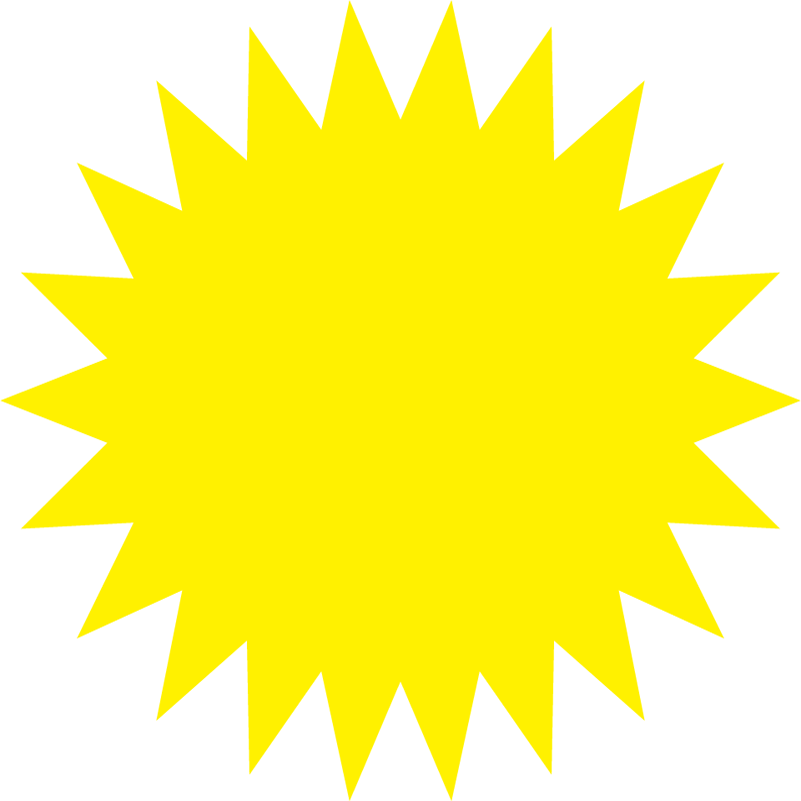
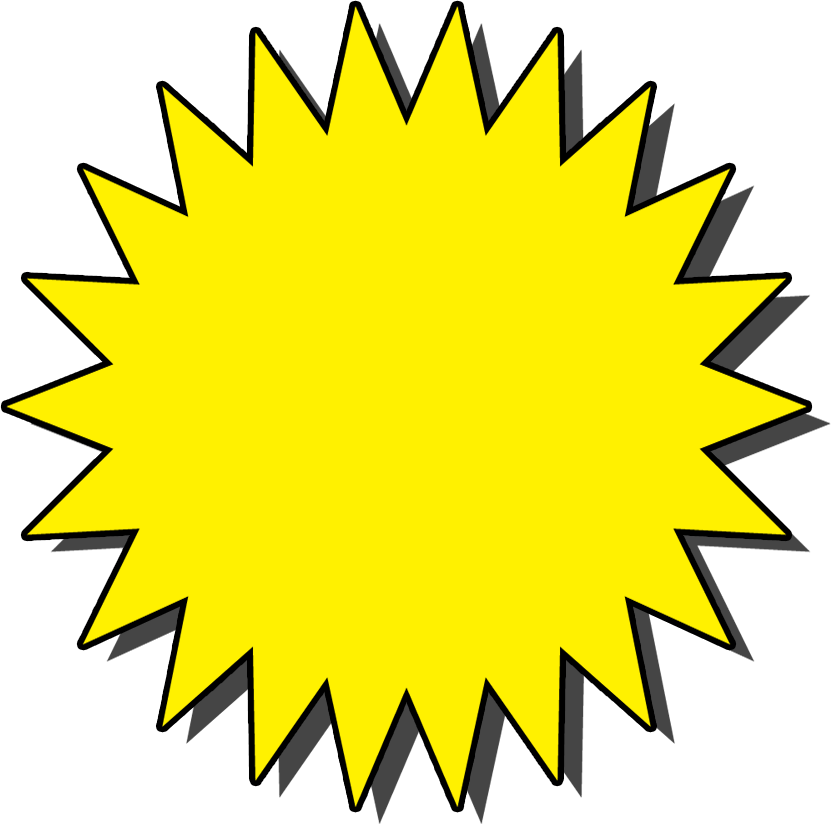
20250927
・UIの作成

diff --git a/main.cpp b/main.cpp
@@ -57,9 +57,9 @@ int WINAPI WinMain(HINSTANCE hInstance,
     PadInput::Initialize();
     BlackOut::GetInstance().Initialize();
 
+    sceneManager->Add<Result>("Result");
     sceneManager->Add<Title>("Title");
     sceneManager->Add<Game>("Game");
-    sceneManager->Add<Result>("Result");
 
     while (!ProcessMessage() && !ClearDrawScreen() && !CheckHitKey(KEY_INPUT_ESCAPE))
     {

diff --git a/Result.cpp b/Result.cpp
@@ -65,6 +65,8 @@ void Result::Update()
 {
     PadInput::Update();
 
+    objectManager->ResultUpdate();
+
     if (PadInput::IsPush_A() && !isPush)
     {
         isPush = true;
@@ -78,7 +80,6 @@ void Result::Update()
             ChangeScene("Title", 0);
         }
     }
-    objectManager->ResultUpdate();
 }
 
 /// <summary>

diff --git a/FinishCut.cpp b/FinishCut.cpp
@@ -37,7 +37,7 @@ void FinishCut::Load(const nlohmann::json& jsonData)
 
 void FinishCut::Initialize()
 {
-	isDrawFinish = true;
+	isDrawFinish = false;
 	finishGraphTimer = 0.0f;
 	x_finishGraph = 600;
 	y_finishGraph = 350;
